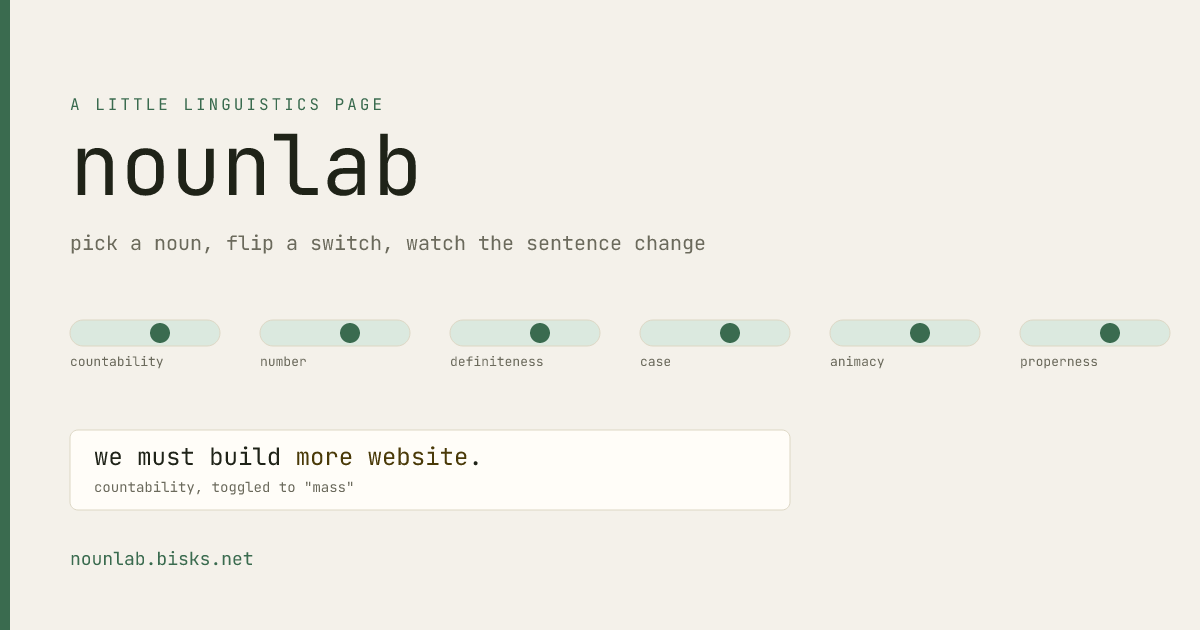
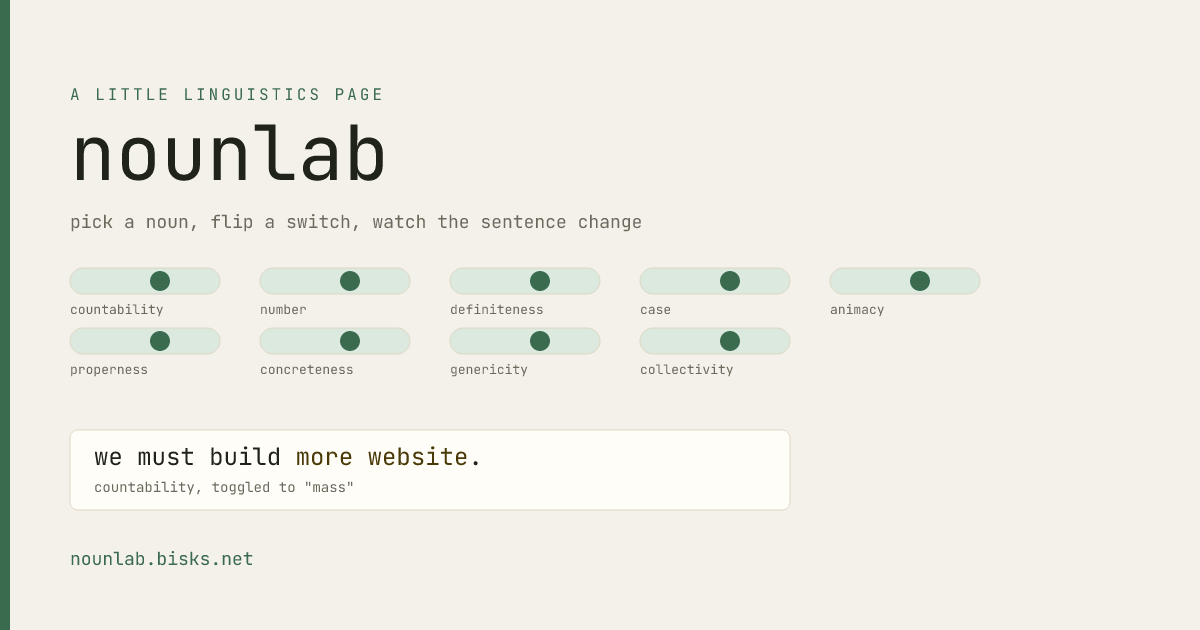
buildthis: nounlab (@bisks.net)

Changed region(s): [[0.0617, 0.1206, 0.9867, 0.6032], [0.2158, 0.4222, 0.3392, 0.6032], [0.0617, 0.4222, 0.185, 0.6032]]

diff --git a/sites/nounlab/public/index.html b/sites/nounlab/public/index.html
@@ -4,19 +4,19 @@
 <meta charset="utf-8" />
 <meta name="viewport" content="width=device-width, initial-scale=1" />
 <title>nounlab — noun properties, toggled</title>
-<meta name="description" content="A little interactive linguistics page: pick a noun, then flip switches for countability, number, definiteness, case, animacy, and properness and watch a sample sentence change under it." />
+<meta name="description" content="A little interactive linguistics page: pick a noun, then flip switches for countability, number, definiteness, case, animacy, properness, concreteness, genericity, and collectivity and watch a sample sentence change under it." />
 
 <meta property="og:type" content="website" />
 <meta property="og:title" content="nounlab — noun properties, toggled" />
-<meta property="og:description" content="Pick a noun (try 'website'). Flip switches for countability, number, definiteness, case, animacy, and properness. Watch the sentence change." />
+<meta property="og:description" content="Pick a noun (try 'website', or something less obvious). Flip nine grammar switches, from countability to collectivity. Watch the sentence change." />
 <meta property="og:url" content="https://nounlab.bisks.net/" />
 <meta property="og:image" content="https://nounlab.bisks.net/og.png" />
 <meta property="og:image:width" content="1200" />
 <meta property="og:image:height" content="630" />
-<meta property="og:image:alt" content="nounlab: six switches labeled countability, number, definiteness, case, animacy, properness, next to the sentence 'we must build more website.'" />
+<meta property="og:image:alt" content="nounlab: nine switches labeled countability, number, definiteness, case, animacy, properness, concreteness, genericity, collectivity, next to the sentence 'we must build more website.'" />
 <meta name="twitter:card" content="summary_large_image" />
 <meta name="twitter:title" content="nounlab — noun properties, toggled" />
-<meta name="twitter:description" content="Pick a noun. Flip six grammar switches. Watch the sentence change." />
+<meta name="twitter:description" content="Pick a noun. Flip nine grammar switches. Watch the sentence change." />
 <meta name="twitter:image" content="https://nounlab.bisks.net/og.png" />
 
 <style>
@@ -122,6 +122,32 @@
   }
   .noun-box input:focus { outline: 2px solid var(--accent); outline-offset: 1px; }
   .noun-hint { flex-basis: 100%; font: 13px/1.5 "Helvetica Neue", Arial, sans-serif; color: var(--muted); }
+  .noun-suggestions {
+    flex-basis: 100%;
+    display: flex;
+    align-items: center;
+    flex-wrap: wrap;
+    gap: 8px;
+    margin-top: 2px;
+  }
+  .noun-suggestions-label {
+    font: 700 12px/1 "Helvetica Neue", Arial, sans-serif;
+    letter-spacing: 0.05em;
+    text-transform: uppercase;
+    color: var(--muted);
+    margin-right: 2px;
+  }
+  .chip {
+    font: 13px/1 "Iowan Old Style", Georgia, serif;
+    color: var(--accent);
+    background: var(--accent-soft);
+    border: 1px solid var(--line);
+    border-radius: 999px;
+    padding: 6px 12px;
+    cursor: pointer;
+  }
+  .chip:hover { background: var(--hl); color: var(--hl-ink); border-color: var(--hl); }
+  .chip.active { background: var(--accent); color: #fff; }
 
   .card {
     background: var(--paper);
@@ -219,7 +245,7 @@
 <header class="masthead">
   <p class="eyebrow">A little linguistics page</p>
   <h1>nounlab</h1>
-  <p class="subtitle">English nouns quietly carry a handful of grammatical properties — countability, number, definiteness, case, animacy, properness. Type a noun, flip a switch, watch the sentence change under it.</p>
+  <p class="subtitle">English nouns quietly carry a handful of grammatical properties — the obvious ones (countability, number, definiteness, case, animacy, properness) and a few less obvious ones (concreteness, genericity, collectivity). Type a noun, flip a switch, watch the sentence change under it.</p>
   <p class="byline">an explainer &middot; prompted on Bluesky by <strong>@bisks.net</strong>, after &ldquo;we must build more website!&rdquo;</p>
   <div class="sharebar">
     <a class="share-btn" id="shareBluesky" href="#" target="_blank" rel="noopener">
@@ -235,6 +261,17 @@
     <label for="nounInput">your noun</label>
     <input id="nounInput" type="text" value="website" maxlength="24" autocomplete="off" spellcheck="false" />
     <p class="noun-hint">Every sentence below updates live. The properness switch also assumes any noun can be treated as a brand name, which is a lie, but a fun one.</p>
+    <div class="noun-suggestions">
+      <span class="noun-suggestions-label">try:</span>
+      <button type="button" class="chip" data-noun="website">website</button>
+      <button type="button" class="chip" data-noun="furniture">furniture</button>
+      <button type="button" class="chip" data-noun="team">team</button>
+      <button type="button" class="chip" data-noun="France">France</button>
+      <button type="button" class="chip" data-noun="advice">advice</button>
+      <button type="button" class="chip" data-noun="moon">moon</button>
+      <button type="button" class="chip" data-noun="idea">idea</button>
+      <button type="button" class="chip" data-noun="scissors">scissors</button>
+    </div>
   </div>
 
   <div id="cards"></div>
@@ -278,7 +315,7 @@
       labels: ["count", "mass"],
       render: function (noun, state) {
         var n = esc(noun) || "noun";
-        if (state === 0) return "We must build another <mark>" + article(n) + " " + n + "</mark>!";
+        if (state === 0) return "We must build <mark>another " + n + "</mark>!";
         return "We must build <mark>more " + n + "</mark>!";
       }
     },
@@ -336,6 +373,39 @@
         if (state === 0) return "<mark>" + cap(article(n)) + " " + n + "</mark> broke the internet this week.";
         return "<mark>" + esc(cap(noun) || noun) + "</mark> broke the internet this week.";
       }
+    },
+    {
+      key: "concreteness",
+      name: "Concreteness",
+      blurb: "Concrete nouns name something you can perceive with the senses — you can point at it. Abstract nouns name a quality, idea, or state that only exists in thought.",
+      labels: ["concrete", "abstract"],
+      render: function (noun, state) {
+        var n = esc(noun) || "noun";
+        if (state === 0) return "You can point at <mark>the " + n + "</mark>.";
+        return "You can only think about <mark>" + n + "</mark>.";
+      }
+    },
+    {
+      key: "genericity",
+      name: "Genericity",
+      blurb: "Generic reference talks about a whole class at once (“Cats sleep a lot”). Specific reference points at one actual instance (“The cat is asleep on my keyboard”) — same noun, different scope.",
+      labels: ["generic", "specific"],
+      render: function (noun, state) {
+        var n = esc(noun) || "noun";
+        if (state === 0) return "<mark>" + esc(cap(pluralize(noun)) || cap(noun) || "Noun") + "</mark> are complicated.";
+        return "<mark>That particular " + n + "</mark> is complicated.";
+      }
+    },
+    {
+      key: "collectivity",
+      name: "Collectivity",
+      blurb: "A collective noun can be treated as one unit (singular verb) or as its individual members (plural verb) — the same noun, two agreements. British and American English don’t always pick the same one.",
+      labels: ["as one unit", "as members"],
+      render: function (noun, state) {
+        var n = esc(noun) || "noun";
+        if (state === 0) return "<mark>The " + n + " is</mark> deciding what to do next.";
+        return "<mark>The " + n + " are</mark> deciding what to do next.";
+      }
     }
   ];
 
@@ -384,13 +454,33 @@
     renderProp(p);
   });
 
-  nounInput.addEventListener("input", renderAll);
+  var chipsEl = document.querySelector(".noun-suggestions");
+  function syncChips() {
+    var current = nounInput.value.trim().toLowerCase();
+    chipsEl.querySelectorAll(".chip").forEach(function (chip) {
+      chip.classList.toggle("active", chip.getAttribute("data-noun").toLowerCase() === current);
+    });
+  }
+
+  nounInput.addEventListener("input", function () {
+    renderAll();
+    syncChips();
+  });
+
+  chipsEl.addEventListener("click", function (e) {
+    var chip = e.target.closest(".chip");
+    if (!chip) return;
+    nounInput.value = chip.getAttribute("data-noun");
+    renderAll();
+    syncChips();
+  });
 
   renderAll();
+  syncChips();
 
   (function () {
     var url = "https://nounlab.bisks.net/";
-    var text = "little linguistics toy: type a noun, flip switches for countability/number/definiteness/case/animacy/properness, watch the sentence change (try “website”) → " + url;
+    var text = "little linguistics toy: type a noun, flip nine grammar switches (countability/number/definiteness/case/animacy/properness/concreteness/genericity/collectivity), watch the sentence change (try “website”) → " + url;
     document.getElementById("shareBluesky").href =
       "https://bsky.app/intent/compose?text=" + encodeURIComponent(text);
   })();

diff --git a/apex/public/index.html b/apex/public/index.html
@@ -2493,7 +2493,7 @@
         <a class="card" href="https://nounlab.bisks.net/" data-site="nounlab" data-by="bisks.net" data-type="explainer" data-src="bot">
           <h2>nounlab</h2>
           <p>
-            a little interactive grammar page — type a noun and flip switches for countability, number, definiteness, case, animacy, and properness to watch a sample sentence change. asked for by bisks.net, riffing on "we must build more website."
+            a little interactive grammar page — type a noun (or try one of the suggested ones) and flip nine switches, from the obvious (countability, number, definiteness, case, animacy, properness) to the less obvious (concreteness, genericity, collectivity), to watch a sample sentence change. asked for by bisks.net, riffing on "we must build more website."
           </p>
         </a>
         <a class="card" href="https://numbergrid.bisks.net/" data-site="numbergrid" data-by="mensmachina.com" data-type="toy" data-src="bot">
